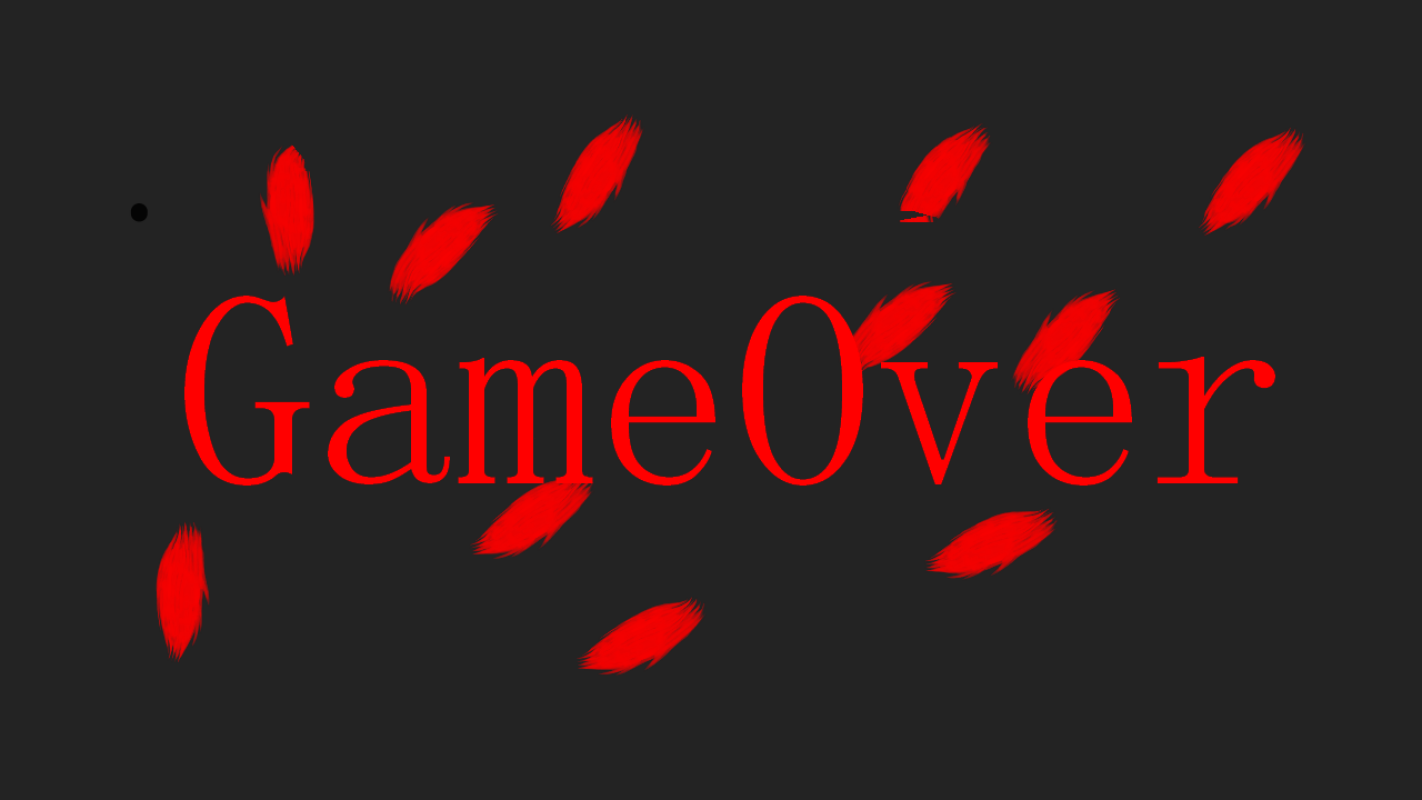
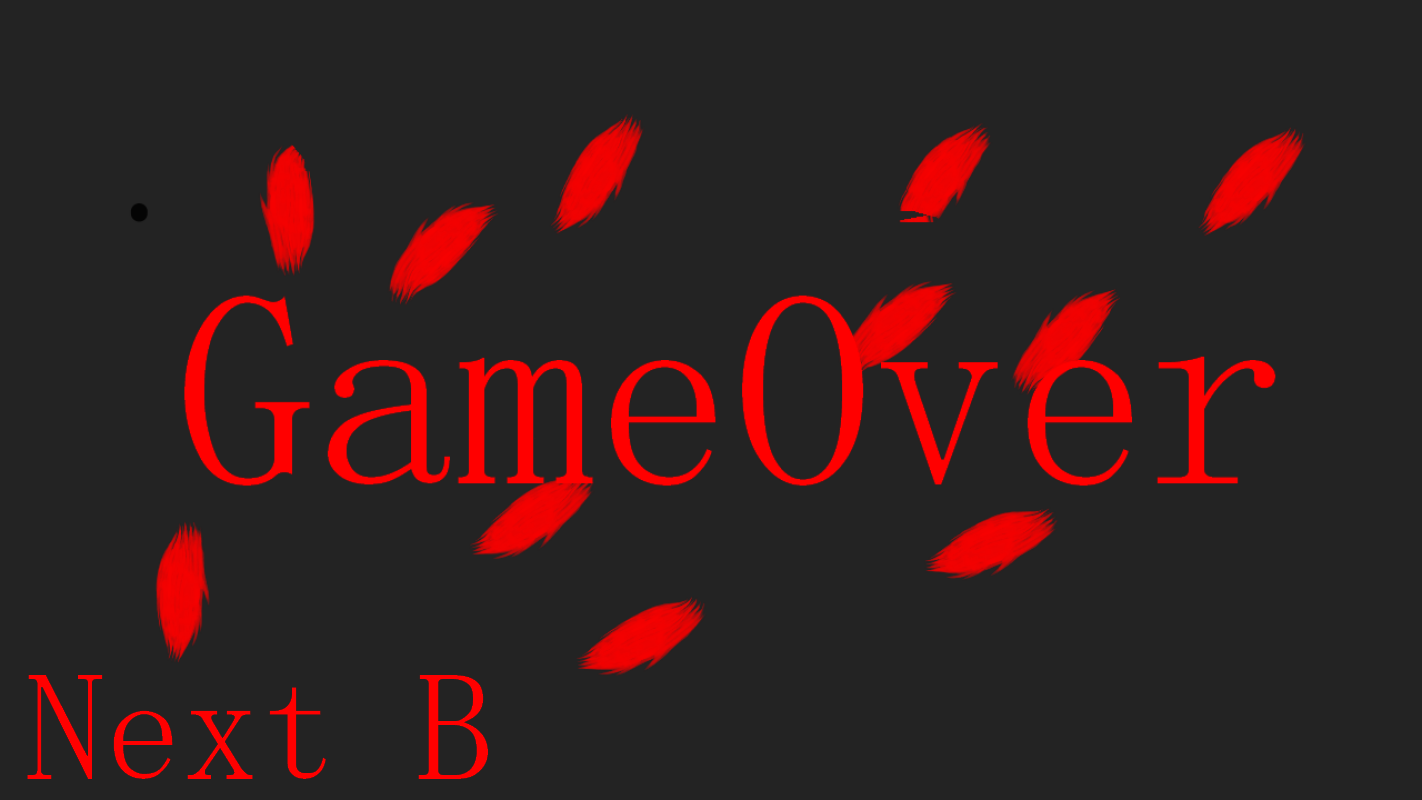
TD

Changed region(s): [[0.0, 0.8438, 0.2166, 0.9688], [0.2785, 0.8438, 0.3404, 1.0]]

diff --git a/main.cpp b/main.cpp
@@ -47,6 +47,8 @@ int WINAPI WinMain(HINSTANCE, HINSTANCE, LPSTR, int) {
 	int opword = Novice::LoadTexture("./openingword.png");
 	int Gameover = Novice::LoadTexture("./GameOver-.png");
 	int clear = Novice::LoadTexture("./clear.png");
+	int setumei = Novice::LoadTexture("./setumei.png");
+
 	int scene = 0;
 
 	int maou;
@@ -89,31 +91,34 @@ int WINAPI WinMain(HINSTANCE, HINSTANCE, LPSTR, int) {
 			break;
 		
 		case 1:
+			
+				if (keys[DIK_SPACE] && preKeys[DIK_SPACE] == 0)
+				{
+					scene = 2;
+				}
+				else if (joyState.Gamepad.wButtons & XINPUT_GAMEPAD_B)
+				{
+					scene = 2;
+				}
+
+			break;
+
+		case 2:
 			if (player->flag == false)
 			{
-				scene = 2;
-			}
-			else if(player->goalflag == false)
-			{
 				scene = 3;
+			}
+			else if (player->goalflag == false)
+			{
+				scene = 4;
 			}
 			if (!Novice::IsPlayingAudio(maou))
 			{
 				Novice::PlayAudio(maou, true, 0.5f);
 			}
-			
+
 			player->Update(keys, preKeys);
 			break;
-
-		case 2:
-
-			if (keys[DIK_SPACE] && preKeys[DIK_SPACE] == 0)
-			{
-
-				scene = 0;
-				player->OnCollision();
-
-			}
 		case 3:
 
 			if (keys[DIK_SPACE] && preKeys[DIK_SPACE] == 0)
@@ -123,7 +128,24 @@ int WINAPI WinMain(HINSTANCE, HINSTANCE, LPSTR, int) {
 				player->OnCollision();
 
 			}
+			else if (joyState.Gamepad.wButtons & XINPUT_GAMEPAD_B)
+			{
+				scene = 0;
+				player->OnCollision();
+			}
+		case 4:
+			if (keys[DIK_SPACE] && preKeys[DIK_SPACE] == 0)
+			{
 
+				scene = 0;
+				player->OnCollision();
+
+			}
+			else if (joyState.Gamepad.wButtons & XINPUT_GAMEPAD_B)
+			{
+				scene = 0;
+				player->OnCollision();
+			}
 			
 			break;
 		}
@@ -141,29 +163,33 @@ int WINAPI WinMain(HINSTANCE, HINSTANCE, LPSTR, int) {
 
 		if (scene == 1)
 		{
-			Novice::DrawSprite(0, 0, view, 1, 1, 0.0f, WHITE);
-			player->Draw();
+			Novice::DrawSprite(0, 0, setumei, 1, 1, 0.0f, WHITE);
 
 		}
 		else if(scene ==2)
 		{
-			Novice::DrawSprite(0, 0, Gameover, 1, 1, 0.0f, WHITE);
+			Novice::DrawSprite(0, 0, view, 1, 1, 0.0f, WHITE);
+			player->Draw();
 		}
 		else if(scene == 3)
+		{
+			Novice::DrawSprite(0, 0, Gameover, 1, 1, 0.0f, WHITE);
+		}
+		else if(scene == 4)
 		{
 			Novice::DrawSprite(0, 0, op, 1, 1, 0.0f, WHITE);
 
 			Novice::DrawSprite(0, 0, clear, 1, 1, 0.0f, WHITE);
-		}
-		else 
-		{
 			
+		}
+		else
+		{
+
 			Novice::DrawSprite(0, 0, op, 1, 1, 0.0f, WHITE);
 
 			Novice::DrawSprite(0, 0, opword, 1, 1, 0.0f, WHITE);
 
 		}
-	
 		
 		///
 		/// ↑描画処理ここまで

diff --git a/Sword.cpp b/Sword.cpp
@@ -5,9 +5,9 @@ void Sword::Initialize()
 
 	position[0].x = 300;
 	position[0].y = 500;
-	position[1].x = 500;
+	position[1].x = 850;
 	position[1].y = 500;
-	position[2].x = 600;
+	position[2].x = 1500;
 	position[2].y = 500;
 	speed_= { 0,0 };
 	this->radius_[0] = 32.0f;

diff --git a/cane.cpp b/cane.cpp
@@ -7,7 +7,7 @@ void cane::Initialize()
 	position[0].y = 1200;
 	position[1].x = 1700;
 	position[1].y = 500;
-	position[2].x = 1800;
+	position[2].x = 2200;
 	position[2].y = 500;
 	speed_ = { 0,0 };
 	this->radius_[0] = 32.0f;
